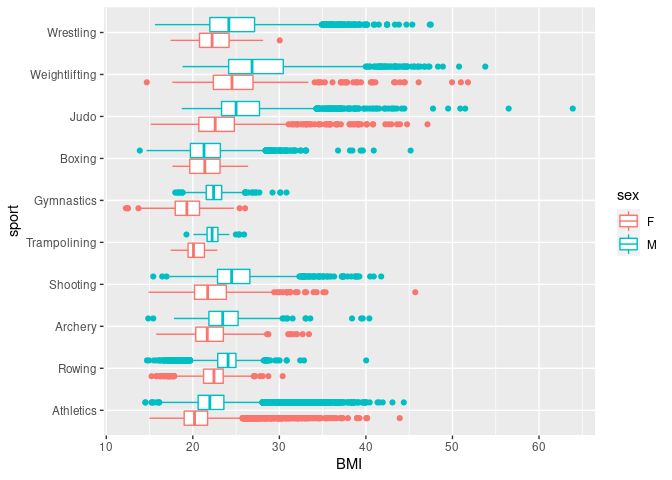
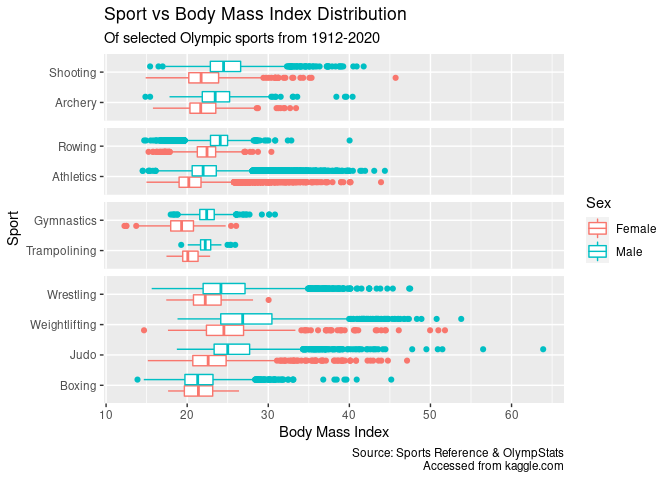
cleaned up Q1Plot1--will add narrative later

diff --git a/README.md b/README.md
@@ -112,13 +112,29 @@ ggplot(olympics, mapping = aes(y = sport, x = BMI, color = sex)) +
 # create helper vector of these sports
 chosen_sports <- c("Wrestling", "Weightlifting", "Judo", "Boxing", "Gymnastics", "Trampolining", "Shooting", "Archery", "Rowing", "Athletics")
 
-# try plotting again with just these sports
+# try plotting again with just these sports, remember to keep each athlete only once!
 olympics %>%
   filter(sport %in% chosen_sports) %>%
+  mutate(category = case_when(
+    sport %in% c("Wrestling", "Weightlifting", "Judo", "Boxing") ~ "weightclass",
+    sport %in% c("Gymnastics", "Trampolining") ~ "lightweight",
+    sport %in% c("Shooting", "Archery") ~ "coordination",
+    TRUE ~ "diverse"
+  )) %>%
   distinct(id, .keep_all = TRUE) %>%
-  mutate(sport = factor(sport, levels = rev(chosen_sports))) %>%
+  mutate(sport = factor(sport, levels = rev(chosen_sports)),
+         sex = factor(sex, labels = c("Female", "Male"))) %>%
 ggplot(mapping = aes(y = sport, x = BMI, color = sex)) +
-  geom_boxplot()
+  geom_boxplot() +
+  labs(x = "Body Mass Index",
+       y = "Sport",
+       color = "Sex",
+       title = "Sport vs Body Mass Index Distribution",
+       subtitle = "Of selected Olympic sports from 1912-2020",,
+       caption = "Source: Sports Reference & OlympStats\nAccessed from kaggle.com") +
+  facet_grid(category ~ ., scales = "free_y", space = "free") +
+  theme(strip.background = element_blank(),
+        strip.text.y = element_blank())
 ```
 
     ## Warning: Removed 14145 rows containing non-finite values (stat_boxplot).
